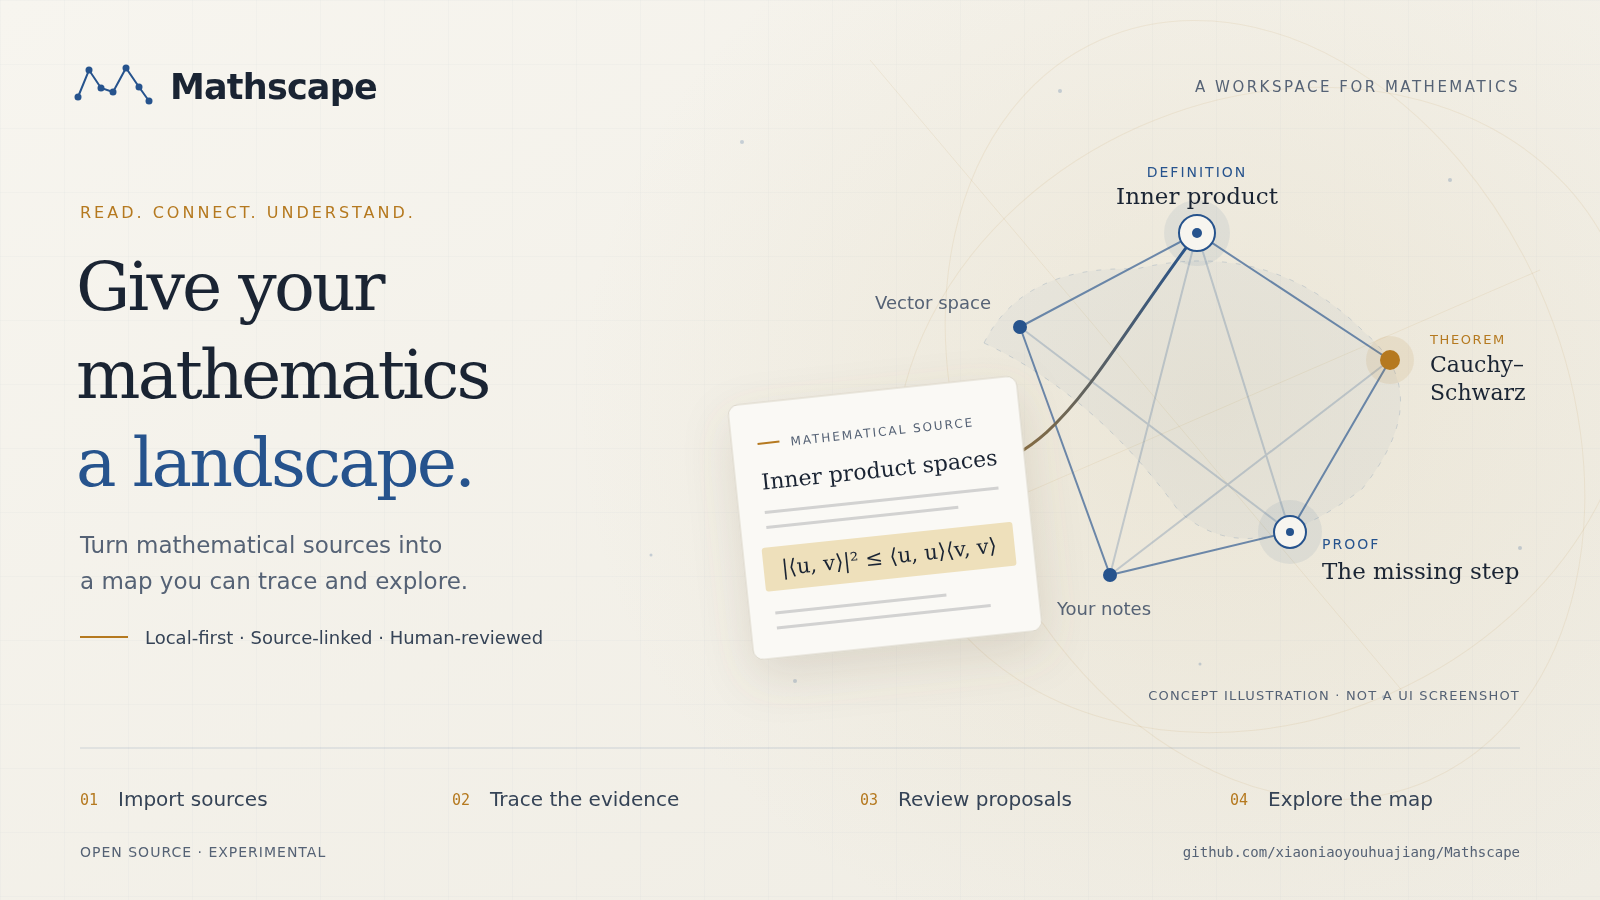
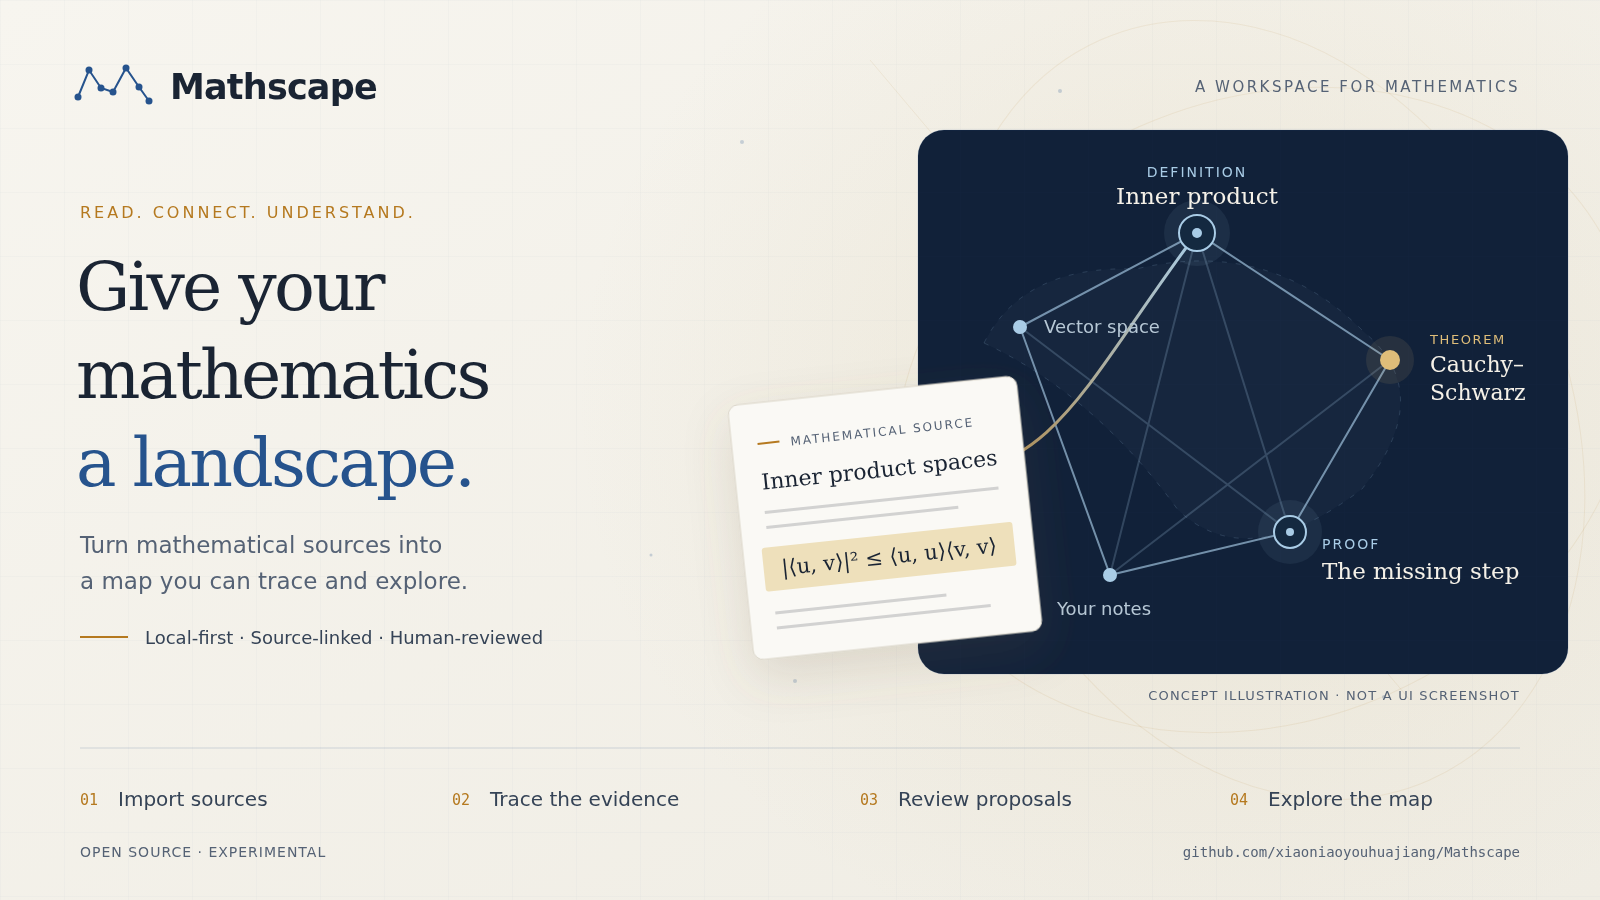
docs: pair distinctive promo artwork with native parchment screenshot

Changed region(s): [[0.5625, 0.1244, 1.0, 0.7467]]

diff --git a/docs/assets/README.md b/docs/assets/README.md
@@ -1,6 +1,6 @@
 # Mathscape promotional artwork
 
-The README hero combines the existing [app icon's constellation](../../apps/mathscape-desktop/icons/icon.svg) with the app's **Warm Parchment** theme: a warm-paper canvas (`#f7f5ef`), Prussian ink blue (`#26538d`), and antique amber (`#b5791f`). These colors come from [the app's theme tokens](../../frontend/src/theme.css), matching the owner's preferred desktop appearance. A highlighted thread links a source to its relationships. It is a **concept illustration, not a product screenshot**. Do not use it to imply that complete proof workflows or automated verification are implemented.
+The README hero fuses the existing [app icon's constellation](../../apps/mathscape-desktop/icons/icon.svg) with the app's **Warm Parchment** palette: a warm-paper canvas (`#f7f5ef`), Prussian ink blue (`#26538d`), and antique amber (`#b5791f`). A deep-blue atlas panel adds promotional contrast rather than reproducing the entire UI in one color. The paper, ink, and amber colors come from [the app's theme tokens](../../frontend/src/theme.css); the product screenshot uses the owner's preferred Warm Parchment desktop theme. A highlighted thread links a source to its relationships. The hero is a **concept illustration, not a product screenshot**. Do not use it to imply that complete proof workflows or automated verification are implemented.
 
 | Asset | Use |
 | --- | --- |
@@ -8,8 +8,11 @@ The README hero combines the existing [app icon's constellation](../../apps/math
 | [mathscape-hero.png](mathscape-hero.png) | 16:9 raster export used by the English README; reusable in posts or video title cards |
 | [mathscape-hero.zh-CN.svg](mathscape-hero.zh-CN.svg) | Editable Chinese-language 1600 × 900 vector master |
 | [mathscape-hero.zh-CN.png](mathscape-hero.zh-CN.png) | Chinese raster export used by the Chinese README |
+| [workspace-parchment.png](workspace-parchment.png) | Unretouched 1280 × 820 native desktop capture of the two-book Fibonacci sample, in Warm Parchment |
 
 The SVGs have no external images, scripts, or font downloads. The English version uses DejaVu Sans, DejaVu Sans Mono, and DejaVu Serif; the Chinese version adds Noto Sans CJK SC and Noto Serif CJK SC, with generic fallbacks. Install those fonts before exporting if you want matching line lengths; check labels after changing fonts. The original artwork is covered by the repository's [Apache-2.0 license](../../LICENSE).
+
+The desktop screenshot uses synthetic sample data from the [two-book Fibonacci fixture](../../fixtures/emir/fibonacci-two-books/README.md), not a personal conversation. It was captured from the native Tauri app during the UI audit; graph labels and optional-runtime setup cards are shown as-is. Keep real screenshots separate from the conceptual artwork when adapting these assets.
 
 ## Export
 

diff --git a/README.md b/README.md
@@ -50,6 +50,13 @@ Mathscape is a desktop tool for turning mathematical sources into a **traceable 
 3. **Review and register** candidates with their source evidence.
 4. **Explore** the resulting graph and return to the material behind it.
 
+### Inside the workspace
+
+<p align="center">
+  <img src="docs/assets/workspace-parchment.png" alt="Native Mathscape desktop in Warm Parchment: a source directory, a populated Fibonacci relationship graph, and the node inspector." width="100%">
+  <br><em>Native desktop capture · Warm Parchment theme · two-book Fibonacci sample data.</em>
+</p>
+
 The first **EMIR semantic workflow** also supports proposals and human acceptance for shared objects, alignments, debts, and a minimal dialect scope, with map and study views. Acceptance **does not increase trust**.
 
 **Not yet end to end:** full proof workflows, R/D/T/X construction, and Lean orchestration. See [architecture and current capabilities](docs/architecture.md) for the implementation boundary.

diff --git a/README.zh-CN.md b/README.zh-CN.md
@@ -48,6 +48,13 @@ Mathscape 是面向数学学习者和研究者的**本地优先桌面工具**，
 3. **审核与登记**：对照来源依据审阅候选，再决定是否登记。
 4. **探索与回看**：浏览关联图，返回关系背后的原始材料。
 
+### 看看实际工作区
+
+<p align="center">
+  <img src="docs/assets/workspace-parchment.png" alt="Mathscape 暖宣手稿主题的真实桌面截图：左侧来源目录、中间已填充的 Fibonacci 关联图、右侧节点详情。" width="100%">
+  <br><em>真实桌面截图 · 暖宣手稿主题 · 双教材 Fibonacci 示例数据。</em>
+</p>
+
 首条 **EMIR 语义工作流**还支持共享对象、对齐线、Debt 与最小 DialectScope 的提案、人工接受，以及地图 / 学习视图。接受**不会提升可信状态**。
 
 **尚未端到端实现**：完整证明工作流、R/D/T/X 构建和 Lean 编排。实现边界详见[架构与当前能力](docs/architecture.md)。
